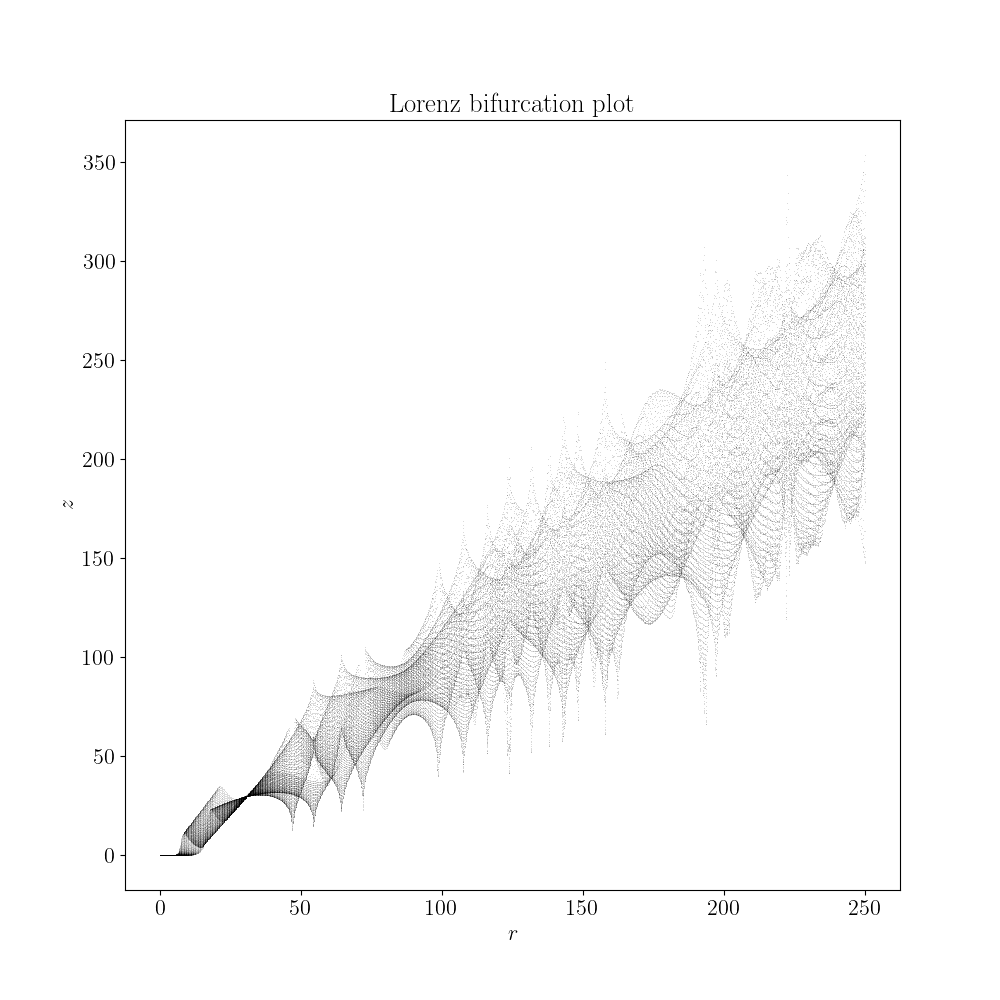
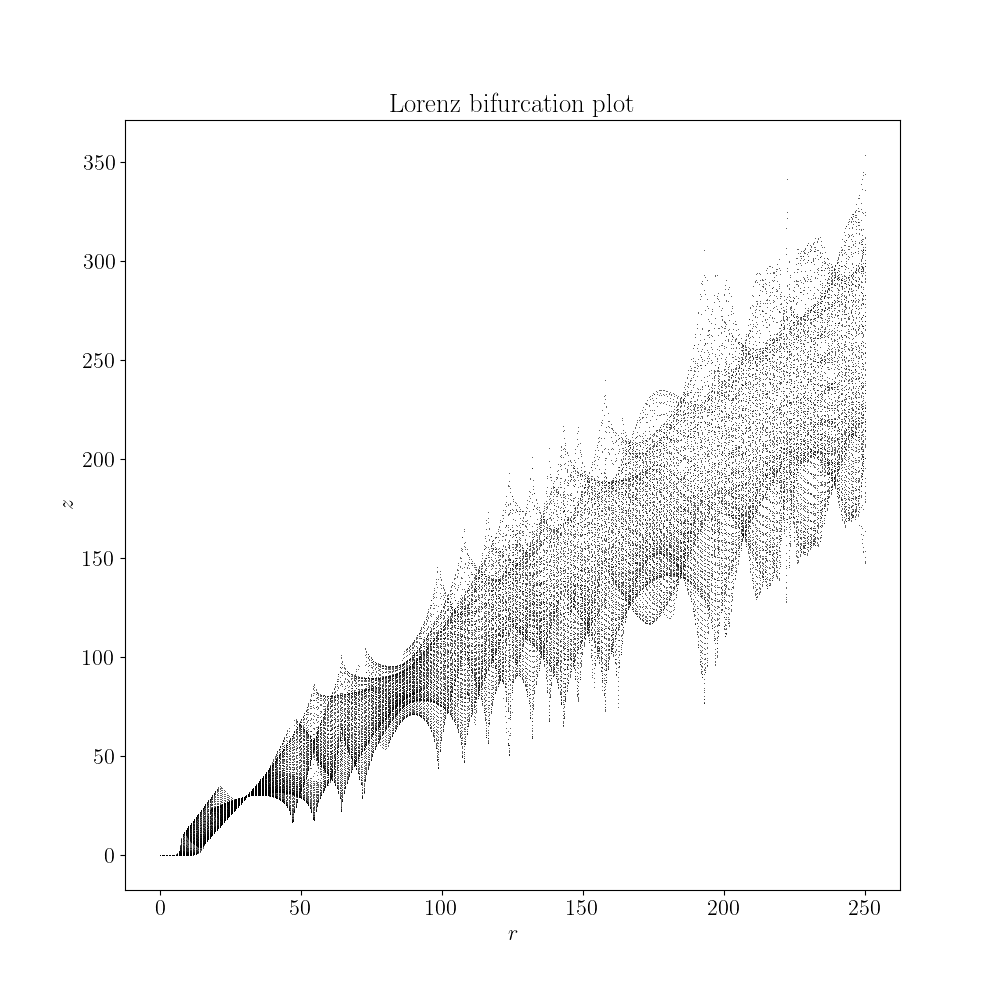
Bifurcation plot working again

Changed region(s): [[0.155, 0.217, 0.868, 0.868]]

diff --git a/Lorenz_attractor/lorenz_attractor.py b/Lorenz_attractor/lorenz_attractor.py
@@ -72,6 +72,7 @@ def lorenz_system(
 
     return [dx_dt, dy_dt, dz_dt]
 
+
 def lorenz_solver(initial_state, sigma=SIGMA, rho=RHO, beta=BETA, dt=TIME_STEP, num_steps=NUM_STEPS):
     # Create solver object
     solver = solve_ivp(lorenz_system, (0, num_steps), initial_state, args=(sigma, rho, beta), dense_output=True)
@@ -116,22 +117,24 @@ def main():
 
 
     # Bifurcation map
-    rho_values = np.linspace(start=0, stop=250, num=1000)
+    num_rho_values = 500
+    rho_values = np.linspace(start=0, stop=250, num=num_rho_values)
+    num_steps = 200
 
     plt.figure(figsize=(10, 10))
     for rho in rho_values:
         # Initial state for x, y, z
         initial_state = (0.01, 0.0, 0.0)
 
-        trajectory = lorenz_solver(initial_state=initial_state, rho=rho, num_steps=200)  # Saves the last coor
+        trajectory = lorenz_solver(initial_state=initial_state, rho=rho, num_steps=num_steps)  # Saves the last coor
         
-        plt.scatter([rho for _ in range(len(trajectory[2, -100:]))], trajectory[2, -100:], c="black", marker='.', s=0.2, linewidths=0)
+        plt.scatter([rho for _ in range(len(trajectory[2,-100:]))], trajectory[2,-100:], c="black", marker='.', s=1, linewidths=0)
 
     plt.title("Lorenz bifurcation plot")
     plt.xlabel("$r$")
     plt.ylabel("$z$")
     plt.savefig("lorenz_bifurcation_plot_z.png")
-
+# 
 
 # ---------------------------------------------------------------------------- #
 #                                     MAIN                                     #
